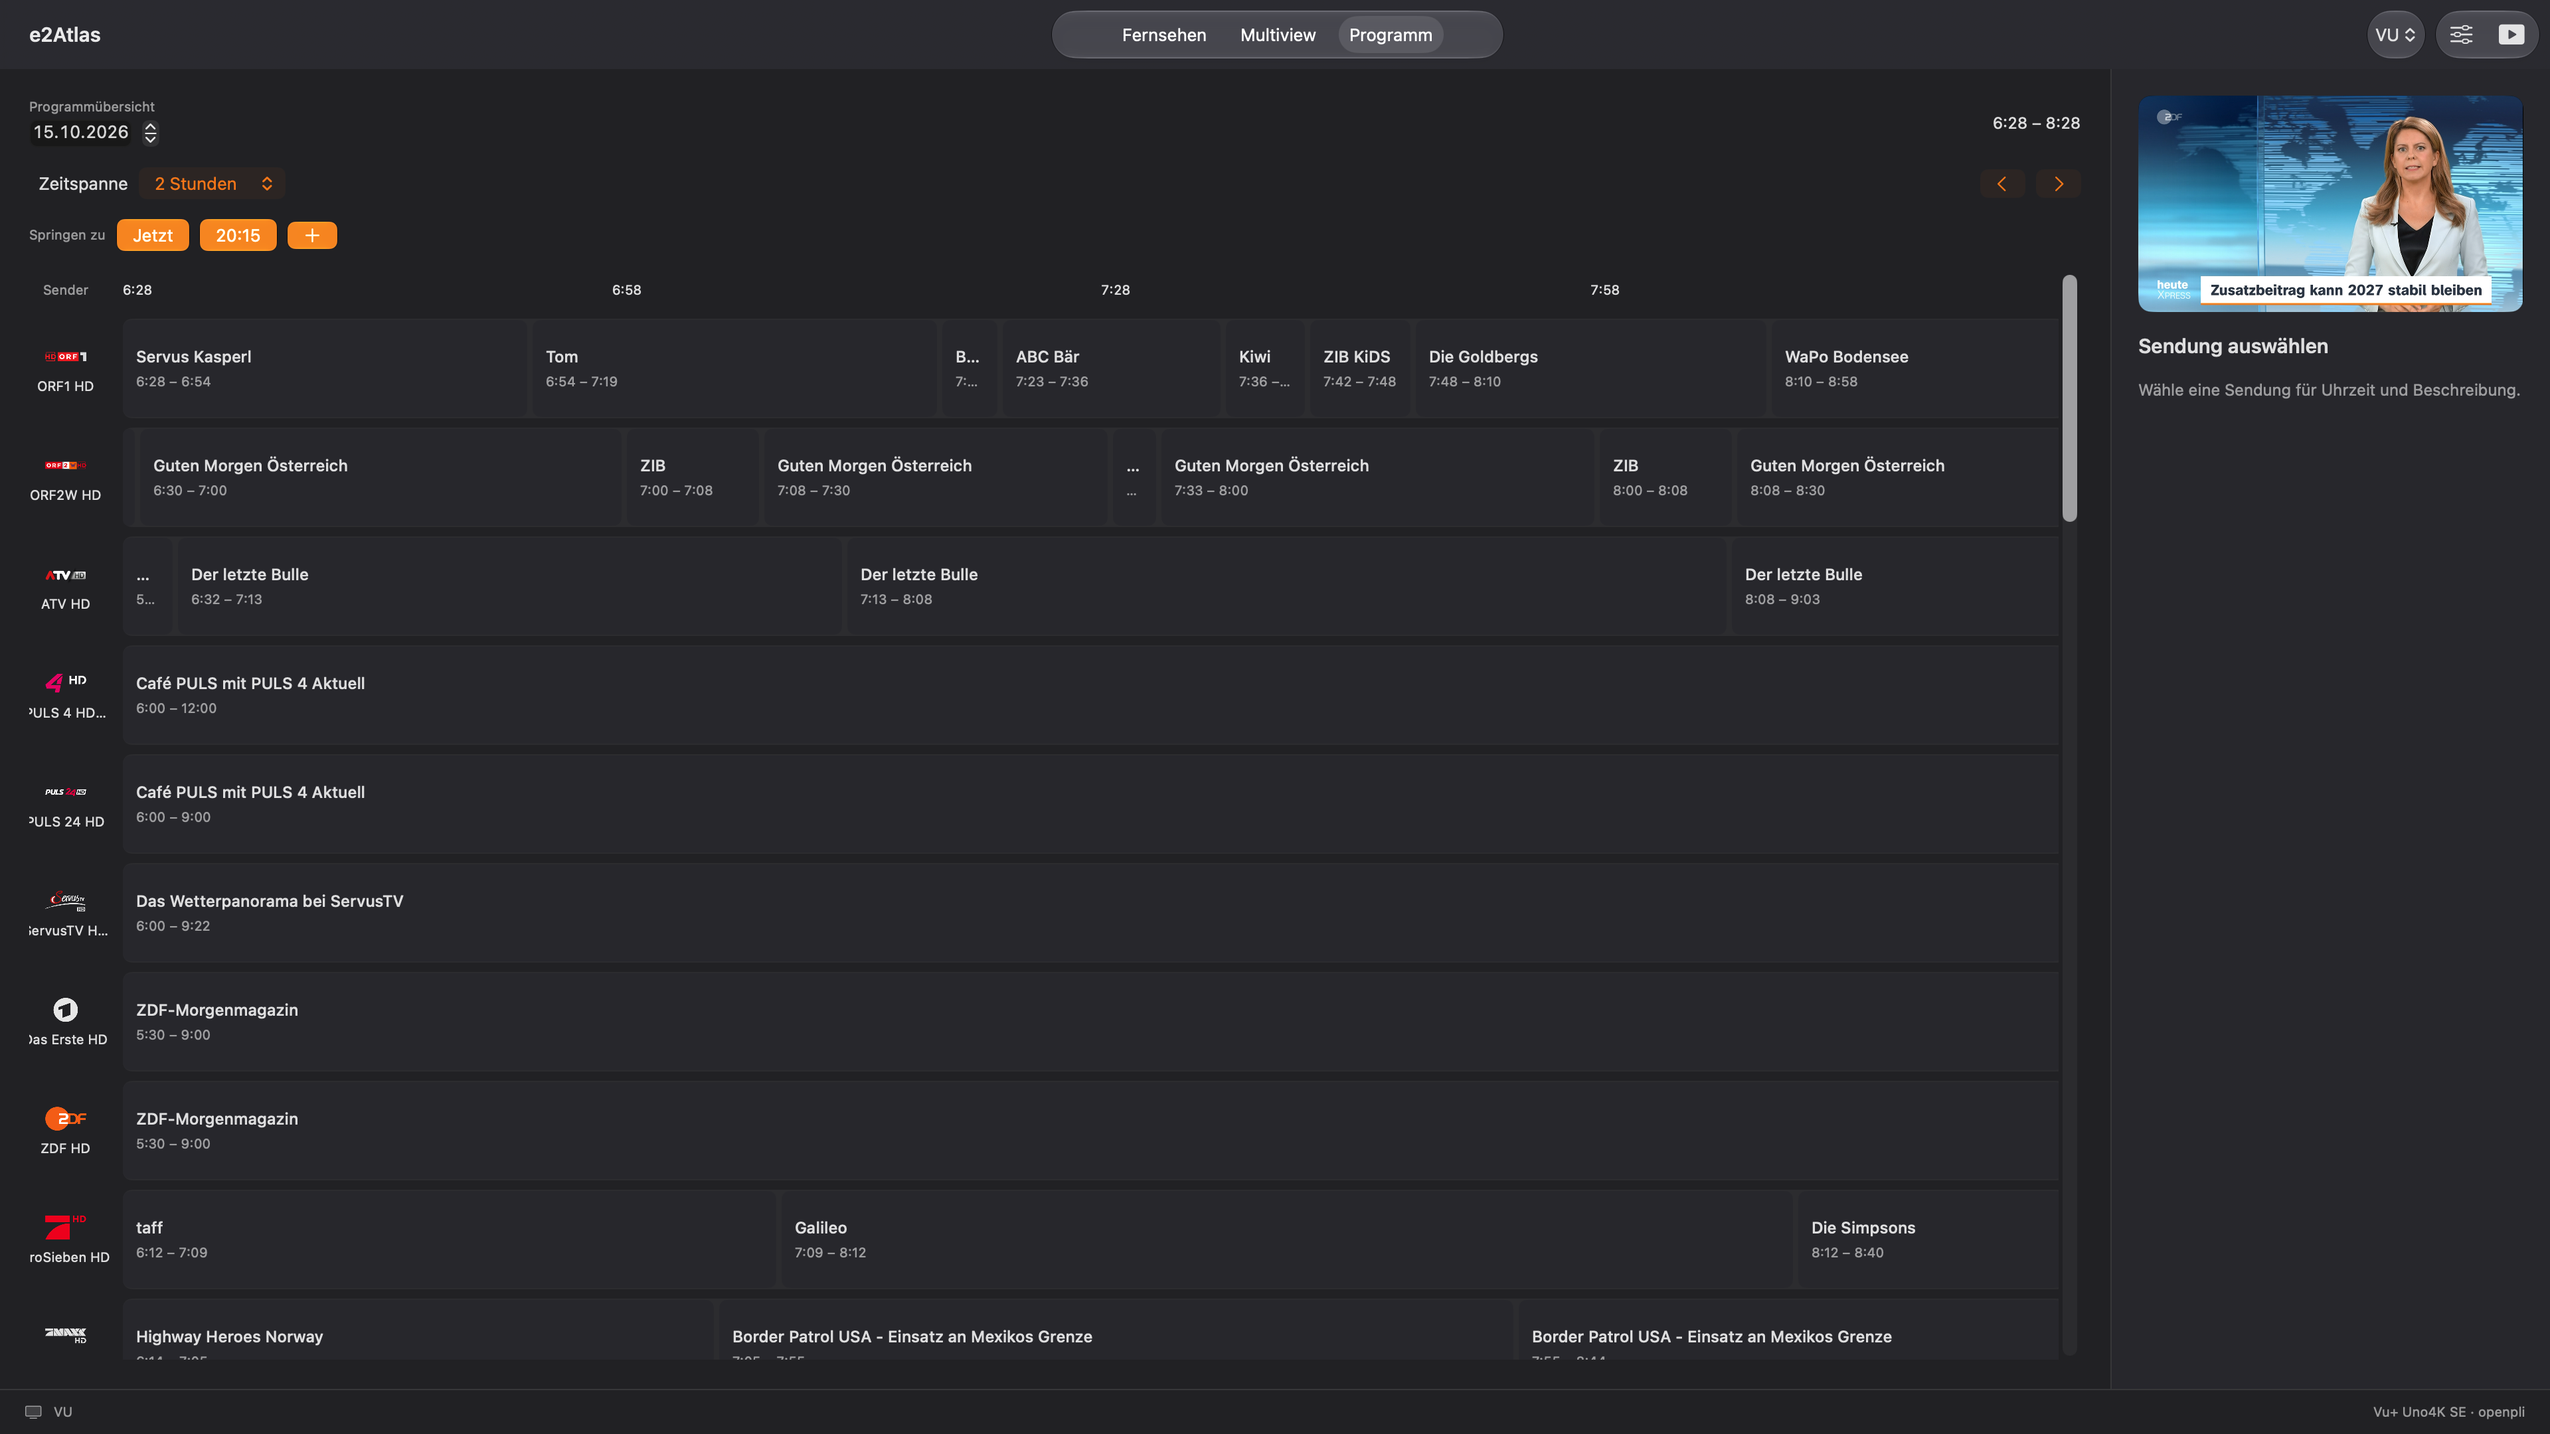
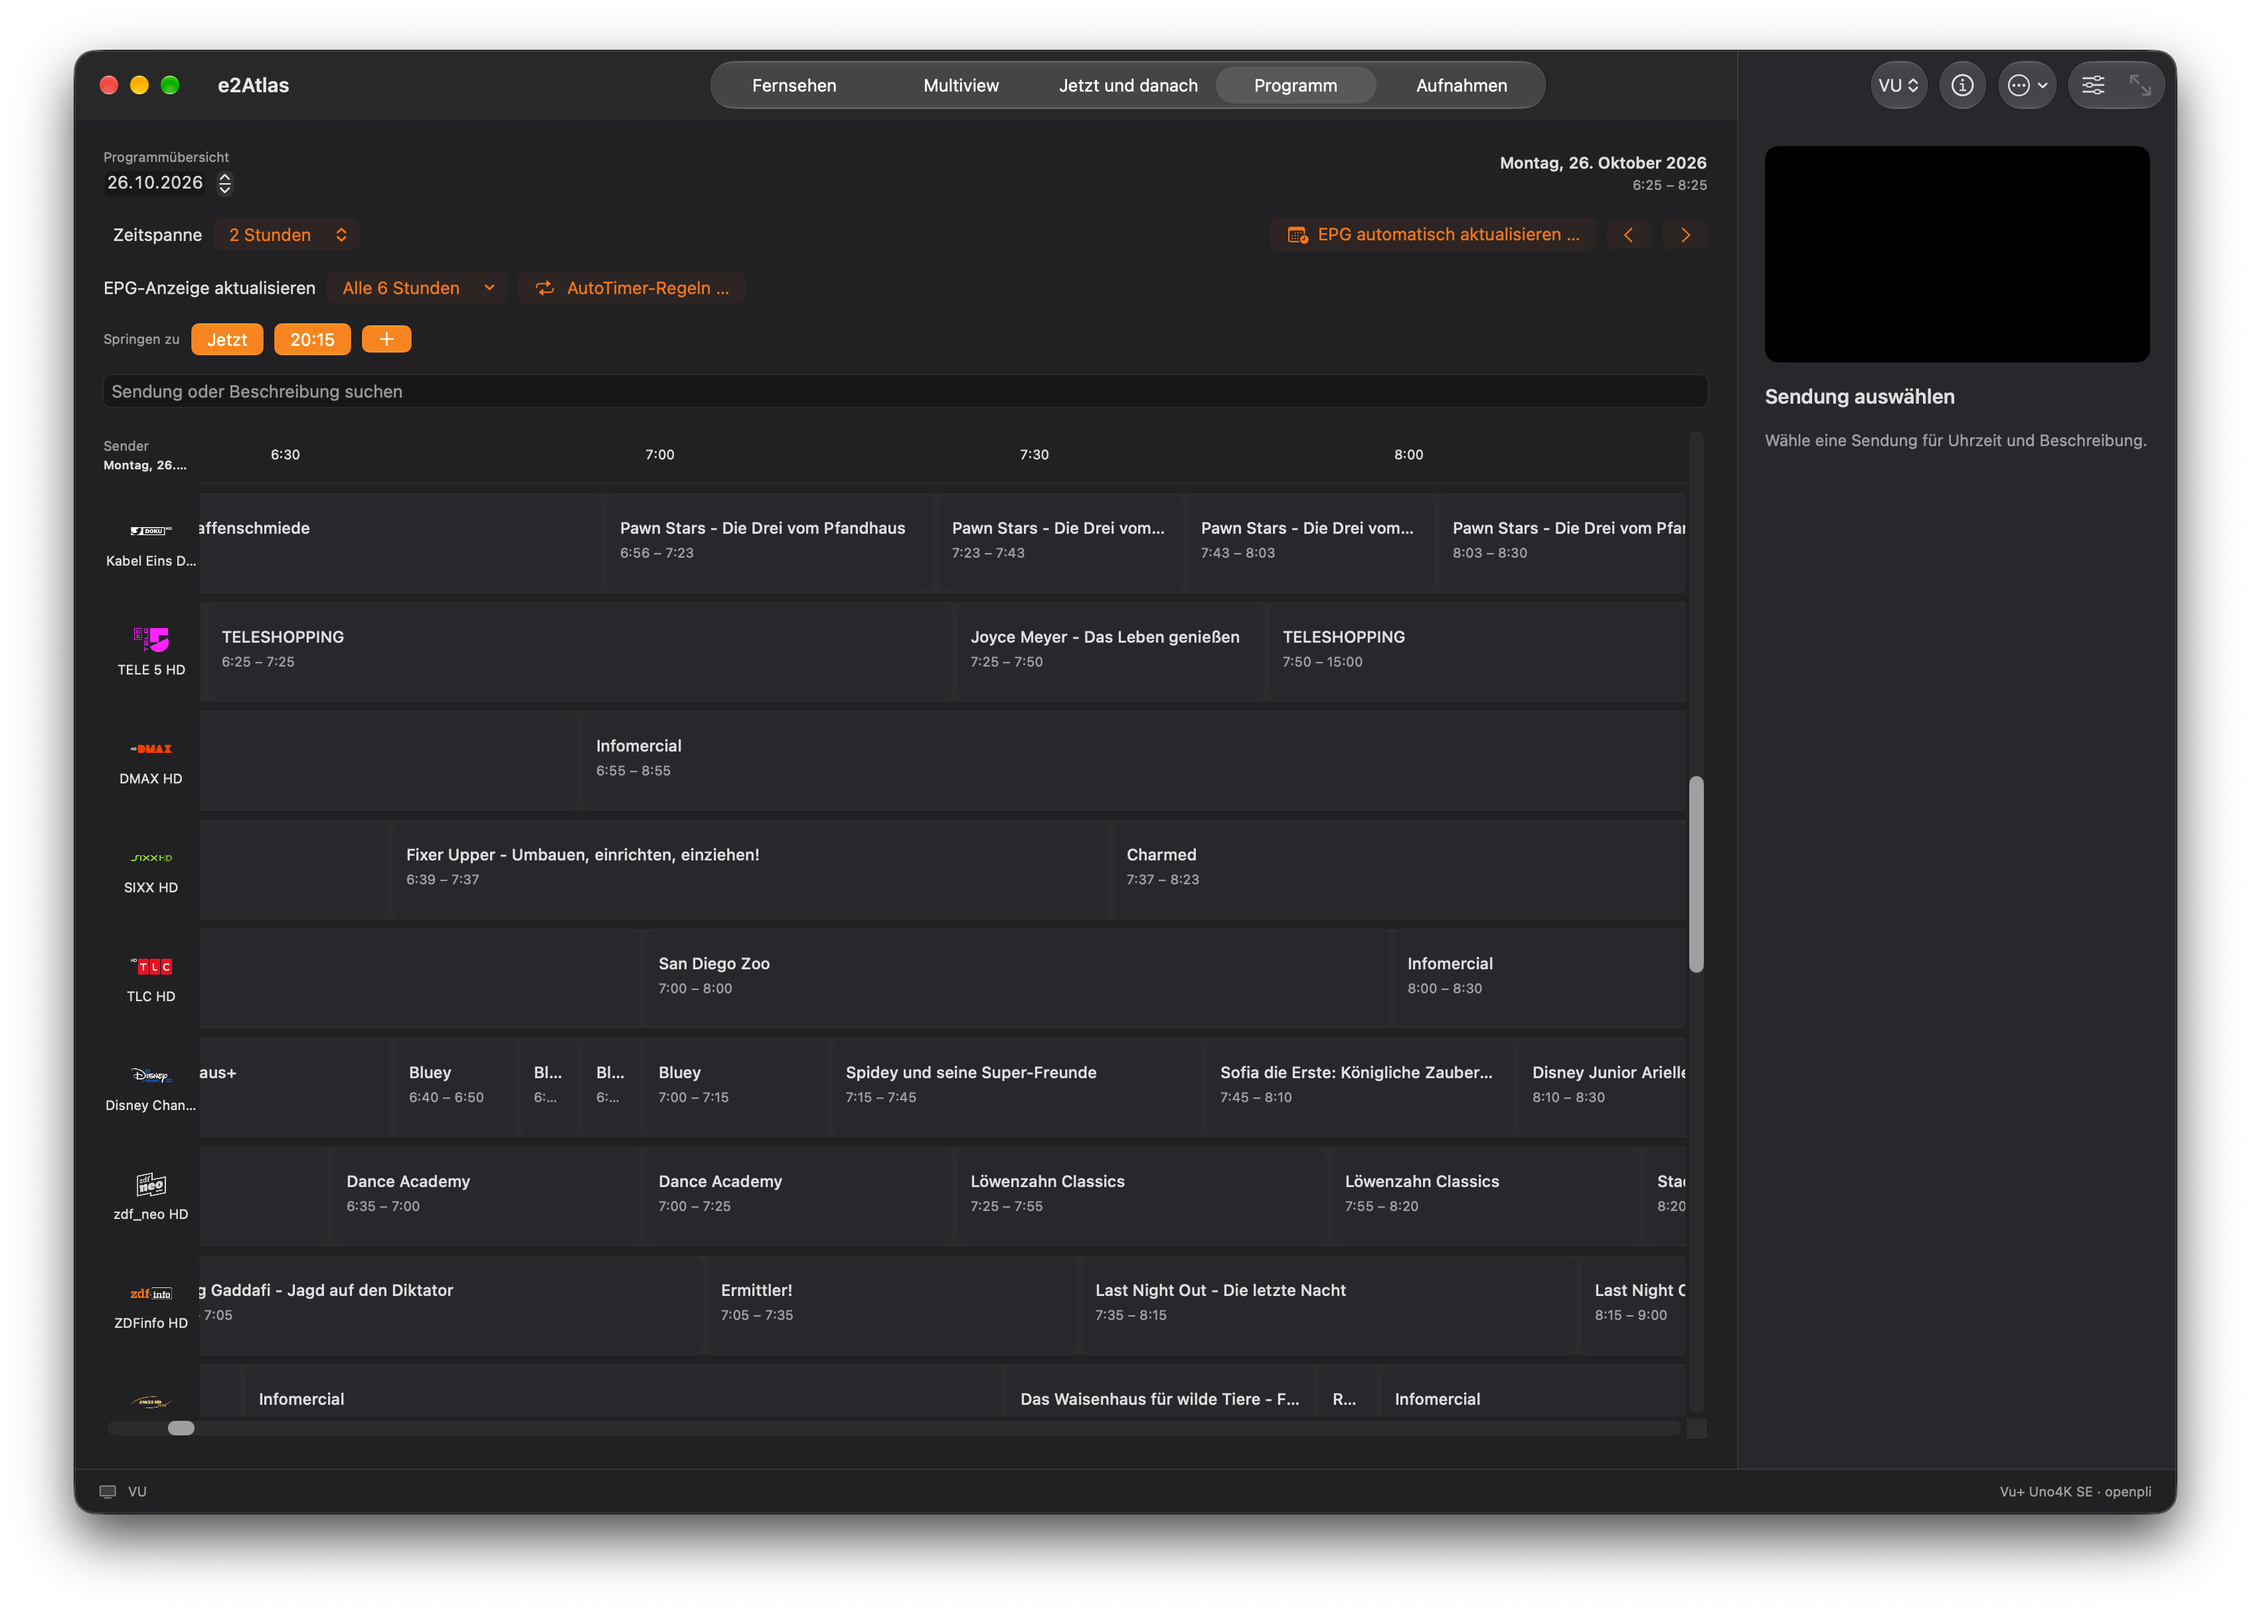
Replace screenshot gallery with current five app views

diff --git a/README.de.md b/README.de.md
@@ -30,19 +30,19 @@ Die vollständige [Funktionsübersicht](FEATURES.de.md) beschreibt auch Wiederga
 
 ## Screenshots
 
-Ein Klick auf eine Vorschau öffnet das Bild in voller Auflösung. Diese historischen Screenshots zeigen die deutsche Oberfläche einer früheren Beta; die Receiver-Adresse wurde anonymisiert.
+Die Bilder zeigen die deutsche Oberfläche von e2Atlas 1.0.0-final. Ein Klick auf eine Vorschau öffnet das Bild in voller Auflösung.
 
 <table>
 <tr>
-<td align="center"><a href="Documentation/Screenshots/full/live-tv.png?raw=true"><img src="Documentation/Screenshots/previews/live-tv.png" width="320" alt="Live-TV mit e2Atlas auf macOS, Senderlogos vom Receiver und Lautstärkeregler"></a><br>Live-TV</td>
-<td align="center"><a href="Documentation/Screenshots/full/multiview.png?raw=true"><img src="Documentation/Screenshots/previews/multiview.png" width="320" alt="Enigma2-Multiview in e2Atlas mit vier TV-Streams und einer aktiven Tonquelle"></a><br>Multiview mit vier Sendern</td>
+<td align="center"><a href="Documentation/Screenshots/full/live-tv.png?raw=true"><img src="Documentation/Screenshots/previews/live-tv.png" width="320" alt="TV-Ansicht von e2Atlas mit Senderauswahl und Bedienleiste unter dem Bild"></a><br>Live-TV</td>
+<td align="center"><a href="Documentation/Screenshots/full/multiview.png?raw=true"><img src="Documentation/Screenshots/previews/multiview.png" width="320" alt="Multiview in e2Atlas mit vier Bildplätzen und eigenen Bedienelementen"></a><br>Multiview</td>
 </tr>
 <tr>
-<td align="center"><a href="Documentation/Screenshots/full/programme-guide.png?raw=true"><img src="Documentation/Screenshots/previews/programme-guide.png" width="320" alt="Elektronischer Programmführer von e2Atlas mit Zwei-Stunden-Ansicht und Live-TV-Vorschau"></a><br>Elektronischer Programmführer</td>
-<td align="center"><a href="Documentation/Screenshots/full/receivers.png?raw=true"><img src="Documentation/Screenshots/previews/receivers.png" width="320" alt="Receiver-Einstellungen von e2Atlas mit anonymisierter Adresse und Platz für drei Geräte"></a><br>Receiver-Einstellungen</td>
+<td align="center"><a href="Documentation/Screenshots/full/now-next.png?raw=true"><img src="Documentation/Screenshots/previews/now-next.png" width="320" alt="Aktuelle und nächste Sendungen mit Fortschritt und Wiedergabeschaltflächen"></a><br>Jetzt und danach</td>
+<td align="center"><a href="Documentation/Screenshots/full/programme-guide.png?raw=true"><img src="Documentation/Screenshots/previews/programme-guide.png" width="320" alt="Programmführer von e2Atlas mit Senderlogos, Sendungen und EPG-Steuerung"></a><br>Programmführer</td>
 </tr>
 <tr>
-<td colspan="2" align="center"><a href="Documentation/Screenshots/full/welcome.png?raw=true"><img src="Documentation/Screenshots/previews/welcome.png" width="320" alt="Willkommensfenster von e2Atlas zum Verbinden eines Enigma2-Receivers über OpenWebif"></a><br>Ersteinrichtung</td>
+<td colspan="2" align="center"><a href="Documentation/Screenshots/full/recordings.png?raw=true"><img src="Documentation/Screenshots/previews/recordings.png" width="320" alt="Receiver-Aufnahmeansicht mit Speicherplatz und Timerfiltern"></a><br>Aufnahmen und Speicherplatz</td>
 </tr>
 </table>
 

diff --git a/README.md b/README.md
@@ -30,19 +30,19 @@ See the complete [feature overview](FEATURES.md) for playback controls, themes, 
 
 ## Screenshots
 
-Click a preview to open the full-resolution image. These historical screenshots show the German interface from an earlier beta; the receiver address has been anonymized.
+These screenshots show the German interface of e2Atlas 1.0.0-final. Click a preview to open the full-resolution image.
 
 <table>
 <tr>
-<td align="center"><a href="Documentation/Screenshots/full/live-tv.png?raw=true"><img src="Documentation/Screenshots/previews/live-tv.png" width="320" alt="e2Atlas live TV player on macOS with receiver channel logos and volume controls"></a><br>Live TV</td>
-<td align="center"><a href="Documentation/Screenshots/full/multiview.png?raw=true"><img src="Documentation/Screenshots/previews/multiview.png" width="320" alt="e2Atlas Enigma2 multiview with four TV streams and one active audio source"></a><br>Four-channel multiview</td>
+<td align="center"><a href="Documentation/Screenshots/full/live-tv.png?raw=true"><img src="Documentation/Screenshots/previews/live-tv.png" width="320" alt="e2Atlas TV view with channel selection and controls below the picture"></a><br>Live TV</td>
+<td align="center"><a href="Documentation/Screenshots/full/multiview.png?raw=true"><img src="Documentation/Screenshots/previews/multiview.png" width="320" alt="e2Atlas multiview with four picture slots and separate controls"></a><br>Multiview</td>
 </tr>
 <tr>
-<td align="center"><a href="Documentation/Screenshots/full/programme-guide.png?raw=true"><img src="Documentation/Screenshots/previews/programme-guide.png" width="320" alt="e2Atlas electronic program guide with a two-hour schedule and live TV preview"></a><br>Electronic program guide</td>
-<td align="center"><a href="Documentation/Screenshots/full/receivers.png?raw=true"><img src="Documentation/Screenshots/previews/receivers.png" width="320" alt="e2Atlas receiver settings with an anonymized address and room for three receivers"></a><br>Receiver settings</td>
+<td align="center"><a href="Documentation/Screenshots/full/now-next.png?raw=true"><img src="Documentation/Screenshots/previews/now-next.png" width="320" alt="Current and next programmes with progress and channel playback buttons"></a><br>Now and Next</td>
+<td align="center"><a href="Documentation/Screenshots/full/programme-guide.png?raw=true"><img src="Documentation/Screenshots/previews/programme-guide.png" width="320" alt="e2Atlas programme guide with channel logos, listings and EPG controls"></a><br>Programme guide</td>
 </tr>
 <tr>
-<td colspan="2" align="center"><a href="Documentation/Screenshots/full/welcome.png?raw=true"><img src="Documentation/Screenshots/previews/welcome.png" width="320" alt="e2Atlas welcome screen for connecting an Enigma2 receiver through OpenWebif"></a><br>First-run setup</td>
+<td colspan="2" align="center"><a href="Documentation/Screenshots/full/recordings.png?raw=true"><img src="Documentation/Screenshots/previews/recordings.png" width="320" alt="Receiver recordings view with storage capacity and timer filters"></a><br>Recordings and storage</td>
 </tr>
 </table>
 

diff --git a/Documentation/Project/PROJECT_CONTEXT.md b/Documentation/Project/PROJECT_CONTEXT.md
@@ -62,3 +62,10 @@ Ein Dateibereich für Transfers zwischen Mac und Receiver und später ein Texted
 - [e2Atlas 1.0.0-final](https://github.com/Schrotty74/e2Atlas/releases/tag/v1.0.0-final) ist als reguläres, aktuelles GitHub-Release veröffentlicht, kein Vorabrelease und kein Entwurf. Tag v1.0.0-final verweist auf 5d53575. ZIP, DMG und SHA256SUMS sind vollständig hochgeladen; alle drei serverseitigen Größen und SHA-256-Digests stimmen mit den geprüften lokalen Dateien überein.
 - main enthält jetzt den freigegebenen Dev-55-Funktionsstand mit Final-Metadaten und -Dokumentation. Beta bleibt f98575f, Dev bleibt lokal auf App-Build 55. Final-App lokal unter `Build/Final/e2Atlas.app`; Release-Ausgaben im Final-Checkout unter `dist/releases/final/1.0.0-final`. Kein weiterer Build-, Release- oder Final-Auftrag offen. Weitere main-Änderungen nur mit passendem Auftrag.
 - Erforderliche Build-/Paketlogs und die bereinigte Startdiagnose bleiben lokal als Nachweise. Eigene temporäre Release-Notes, Konsolenkopien und Arbeitsordner nach Abschluss entfernt.
+
+
+## Neue öffentliche Screenshots – 26. Oktober 2026
+
+- Auf ausdrücklichen Nutzerauftrag fünf bereitgestellte Screenshots für Fernsehen, Multiview, Jetzt und danach, Programmführer und Aufnahmen auf main und beta ersetzt beziehungsweise neu zugeordnet. Die bisherigen Bilder von Receiver-Einstellungen und Ersteinrichtung aus der aktuellen Galerie entfernt. App-Icon unverändert.
+- Vollauflösende PNG-Bilddaten unverändert übernommen; nicht darstellungsrelevante Metadaten entfernt. Vorschauen mit 640 Pixeln Breite und erhaltenem Seitenverhältnis erstellt. Deutsche und englische README-Galerien verlinken die fünf neuen Ansichten. Auf beta ist der gezeigte Final-Stand mit möglichen Abweichungen der Bedienelemente ausdrücklich bezeichnet.
+- Ausschließlich Bilder, README-Galerien und dieser Kontext geändert. Keine App-Builds, Versions-, Tag- oder Downloadänderungen. Veröffentlichung auf beiden Branches durch diesen Screenshot-Auftrag ausdrücklich freigegeben.
